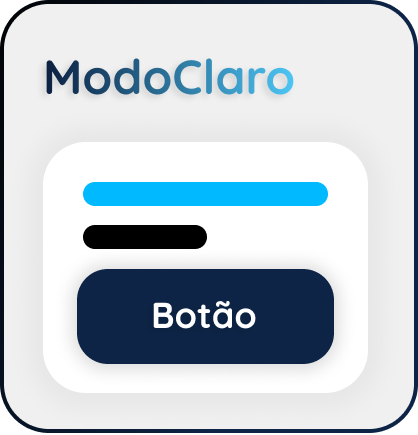
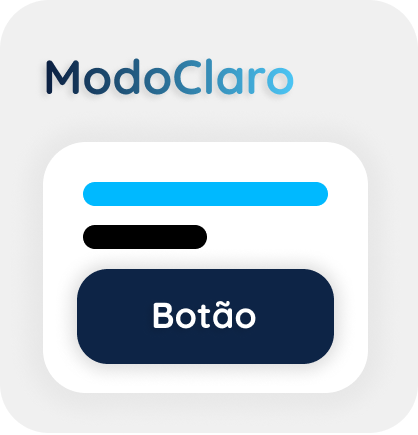
settings screen done

Changed region(s): [[0.0, 0.0, 1.0, 0.9563], [0.0311, 0.9563, 0.9641, 1.0]]

diff --git a/css/ajustes.css b/css/ajustes.css
@@ -1,27 +1,31 @@
 body {
-    background-color: rgba(240, 240, 240, 1);
+    background-color:  rgba(222, 242, 249, 1);
     padding-bottom: 130px;
     margin-right: 6%;
     margin-left: 6%;
 }
 
-.bloco0{
-   text-align: center;
-   justify-content: space-evenly;
+.bloco0 {
+    justify-content: space-around;
+    display: flex;
+}
+
+.imagem-texto {
+    text-align: center;
 }
 
 /* FONTES */
 h1 {
     background: var(--gradiente-text,
             linear-gradient(rgba(12, 32, 66, 1),
-                rgba(39, 169, 219, 1)));
+                rgb(34, 144, 187)));
     -webkit-text-fill-color: transparent;
     -webkit-background-clip: text;
     font-family: "Quicksand";
     word-wrap: break-word;
     background-clip: text;
-    font-weight: bold;
     line-height: normal;
+    font-weight: bold;
     margin-bottom: 0%;
     text-align: left;
     font-size: 30px;
@@ -34,18 +38,37 @@ h2 {
     font-style: normal;
     font-weight: bold;
     text-align: start;
-    font-size: 25px;
     margin-bottom: 0%;
+    font-size: 25px;
 }
 
 h3 {
     font-family: "Quicksand", sans-serif;
     color: rgba(10, 29, 62, 1);
-    text-align: start;
     font-weight: normal;
-    font-size: 20px;
-    margin-top: 5px;
     margin-bottom: 3px;
+    text-align: start;
+    font-size: 18px;
+    margin-top: 5px;
+    margin-right: 15px;
+}
+
+h4 {
+    font-family: "Quicksand", sans-serif;
+    color: rgba(10, 29, 62, 1);
+    font-weight: bold;
+    margin-bottom: 3px;
+    font-size: 18px;
+    margin-top: 5px;
+}
+
+h5 {
+    font-family: "Quicksand", sans-serif;
+    color: rgba(10, 29, 62, 1);
+    font-weight: normal;
+    margin-bottom: 3px;
+    font-size: 18px;
+    margin-top: 5px;
 }
 
 p {
@@ -65,5 +88,27 @@ a {
     background-color: white;
     border-radius: 25px;
     margin-bottom: 10px;
-    padding: 20px; 
+    padding: 20px;
 }
+
+.botao {
+    display: inline-block;
+    text-align: center;
+}
+
+.botao a {
+    text-decoration: none;
+    align-items: center;
+    display: flex;
+}
+
+.Bicon {
+    box-shadow: 0px 0px 15px rgba(0, 0, 0, 0.1);
+    background-color: white;
+    border-radius: 25%;
+    margin-right: 15px;
+    margin-top: 5px;
+    padding: 10px;
+    width: 30px;
+}
+

diff --git a/ajustes.html b/ajustes.html
@@ -23,16 +23,33 @@
 
     <h2>Aparência</h2>
     <div class="bloco0">
-        <img src="pics/modo escuro.png" id="modo">
-        <img src="pics/modo claro.png" id="modo">
-    </div>
-
+        <div class="imagem-texto">
+            <img src="pics/modo claro.png" id="modo">
+            <h4>Claro</h4>
+            <img src="pics/selected.png" id="slct">
+        </div>
+        <div class="imagem-texto">
+            <img src="pics/modo escuro.png" id="modo">
+            <h5>Escuro</h5>
+            <img src="pics/select.png" id="slct">
+        </div>
+    </div>    
 
     <h2>Conta</h2>
-    <div class="buttons">
-        <a href=""><img src="pics/lapis.png" id="aicon"> <h3>Editar Email</h></a>
-        
+    <div class="botao">
+        <a href="#">
+            <img src="pics/arrobaC.png" class="Bicon">
+            <h3>Alterar Email</h3>
+        </a>
     </div>
+    <div class="botao">
+        <a href="#">
+            <img src="pics/passwordC.png" class="Bicon">
+            <h3>Redefinir Senha</h3>
+        </a>
+    </div>
+    
+    
 
 
     <div class="navbar">

diff --git a/css/icons.css b/css/icons.css
@@ -260,6 +260,14 @@
 }
 
 #modo {
-    width: 170px;
+    box-shadow: 0px 0px 10px rgba(0, 0, 0, 0.178);
+    border-radius: 20px;
     margin-top: 15px;
+    width: 170px;
+}
+
+#slct {
+    margin-bottom: 0px;
+    margin-top: 3px;
+    width: 25px;
 }
